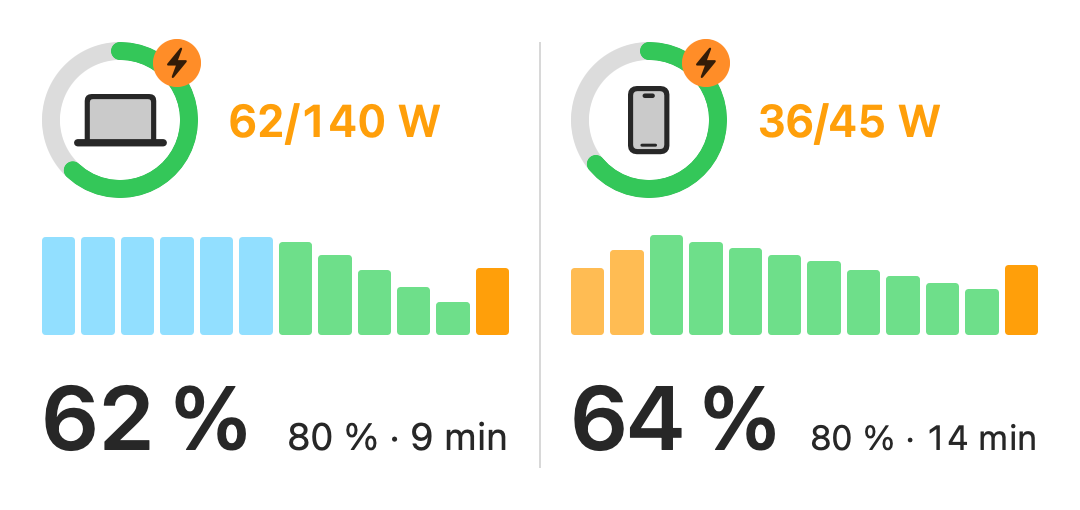
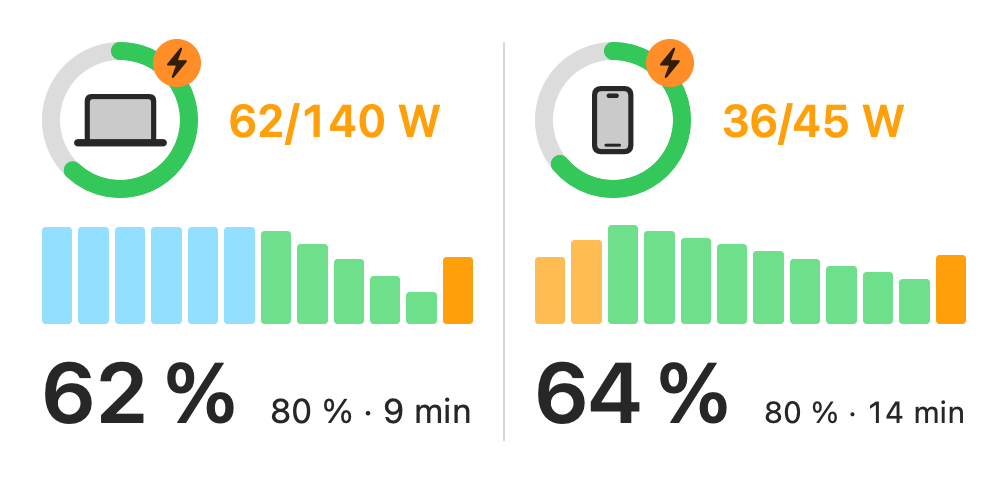
1.3.4: widget power line drops the unit before truncating; silent tile says 'no contact'; renders at the real widget width

diff --git a/TandemApp/Sources/TandemWidget/DevicePresentation.swift b/TandemApp/Sources/TandemWidget/DevicePresentation.swift
@@ -50,7 +50,7 @@ struct DevicePresentation {
         /// The number is what the wall is carrying, not what the pack is
         /// taking, and the colour is the one the `mains` bars are drawn in.
         case plugged
-        /// Secondary: a discharge figure, "on battery", "silent since
+        /// Secondary: a discharge figure, "on battery", "no contact
         /// 14:32", "no data". Nothing here is a flow of power.
         case plain
     }
@@ -58,6 +58,11 @@ struct DevicePresentation {
     /// The line beside the ring, resolved. Nil only when there is genuinely
     /// nothing to say; every state in the approved matrix says something.
     let topText: String?
+    /// The same line with the unit dropped ("135/140" for "135/140 W"), used
+    /// only when the full string will not fit beside the ring: a three-digit
+    /// pair on a 140 W brick is wider than half a medium widget. Nil when
+    /// there is nothing to drop.
+    let topTextCompact: String?
     let topKind: TopLineKind
 
     /// `DeviceStatus.isSilent(now:)`: we have been *trying and failing* to read
@@ -77,7 +82,7 @@ struct DevicePresentation {
     let lastSeen: Date?
 
     /// The moment the current run of failures began — what a silent tile writes
-    /// in both of its slots ("silent since 14:32" over "14:32"). Nil unless we
+    /// in both of its slots ("no contact" over "14:32"). Nil unless we
     /// are failing.
     let unreachableSince: Date?
 
@@ -130,6 +135,7 @@ struct DevicePresentation {
             lastSeen = nil
             unreachableSince = nil
             topText = Self.noDataLabel
+            topTextCompact = nil
             topKind = .plain
             return
         }
@@ -150,7 +156,8 @@ struct DevicePresentation {
 
         timeLine = Self.timeLine(status: status, now: now, age: silent ? silence : nil)
 
-        let power = Self.powerLine(kind: kind, status: status)
+        let power = Self.powerLine(kind: kind, status: status)?.full
+        let powerCompact = Self.powerLine(kind: kind, status: status)?.compact
         powerText = power
         let plugged = reading.externalConnected && !reading.isCharging
         showsPlugGlyph = plugged && power != nil
@@ -158,24 +165,28 @@ struct DevicePresentation {
         // The top line, one state at a time, in the order of the approved
         // matrix (docs/design/widget/StatesMac, StatesPhone).
         if silent {
-            topText = Self.noContactText(silentAt)
+            topText = Self.noContactLabel
+            topTextCompact = nil
             topKind = .plain
         } else if reading.isCharging {
             topText = power
+            topTextCompact = powerCompact
             topKind = power == nil ? .plain : .charging
         } else if plugged {
             topText = power
+            topTextCompact = powerCompact
             topKind = power == nil ? .plain : .plugged
         } else {
             // A Mac says what it is drawing; a phone's discharge wattage is
             // deliberately never shown, and a partial Mac reading has no honest
             // figure either. Both then say what they *are* doing.
             topText = power ?? Self.onBatteryLabel
+            topTextCompact = nil
             topKind = .plain
         }
 
         // A silent tile's bottom-right is the moment it went quiet, so the two
-        // halves of the tile agree: "silent since 14:32" over "14:32".
+        // halves of the tile agree: "no contact" over "14:32".
         statusText = silent
             ? Self.clock(silentAt)
             : Self.statusText(status: status, now: now)
@@ -211,7 +222,8 @@ struct DevicePresentation {
     /// Watts as one short string. Whole watts throughout — a tenth of a watt
     /// has never changed anybody's mind, and the tile has better uses for the
     /// width.
-    private static func powerLine(kind: DeviceKind, status: DeviceStatus) -> String? {
+    /// The wattage line and, where one exists, a narrower spelling of it.
+    private static func powerLine(kind: DeviceKind, status: DeviceStatus) -> (full: String, compact: String?)? {
         let reading = status.reading
         let adapter = (reading.adapterWatts ?? 0) > 0 ? reading.adapterWatts : nil
 
@@ -224,14 +236,16 @@ struct DevicePresentation {
             switch (into, adapter) {
             case let (into?, adapter?):
                 // "13/140 W" — coming out of the wall over what is available.
-                return "\(Int(into.rounded()))/\(adapter) W"
+                // The unit is the first thing to go when the pair runs wide.
+                let pair = "\(Int(into.rounded()))/\(adapter)"
+                return ("\(pair) W", pair)
             case let (into?, nil):
-                return "\(Int(into.rounded())) W"
+                return ("\(Int(into.rounded())) W", nil)
             case let (nil, adapter?):
                 // Nothing measurable, so the number is what the brick offers
                 // rather than what is flowing. An iPhone left on the wire past
                 // 100 % is the usual way to see it: "45 W".
-                return "\(adapter) W"
+                return ("\(adapter) W", nil)
             case (nil, nil):
                 return nil
             }
@@ -242,13 +256,13 @@ struct DevicePresentation {
             // On battery: what the machine is drawing. `SystemLoad` is the
             // real figure; Amperage x Voltage is the fallback.
             if let load = reading.systemLoadW {
-                return "\(minus)\(Int(load.rounded())) W"
+                return ("\(minus)\(Int(load.rounded())) W", nil)
             }
             // A partial reading carries 0 W, which is a lie, not a reading.
             guard !reading.isPartial else { return nil }
             let watts = reading.batteryPowerW
             let sign = watts < 0 ? minus : ""
-            return "\(sign)\(Int(abs(watts).rounded())) W"
+            return ("\(sign)\(Int(abs(watts).rounded())) W", nil)
         case .iphone:
             // The phone's discharge wattage is deliberately not shown.
             return nil
@@ -302,16 +316,14 @@ struct DevicePresentation {
         String(localized: "no data", comment: "Widget: this device has never been seen.")
     }
 
-    /// `silent since 14:32` — a device we have been failing to reach for longer
-    /// than `DeviceStatus.silenceWindow`, timed from the first of those
-    /// failures. The time, not the age: "since 14:32" is checkable
-    /// against a clock and "12 min" goes stale the moment it is drawn.
-    static func noContactText(_ date: Date) -> String {
-        String(
-            format: String(localized: "silent since %@",
-                           comment: "Widget: the device stopped reporting; %@ is a short time of day."),
-            clock(date)
-        )
+    /// `no contact` — a device we have been failing to reach for longer than
+    /// `DeviceStatus.silenceWindow`. The moment it went quiet is the tile's
+    /// bottom-right slot, so the top line does not repeat it: "silent since
+    /// 14:32" over "14:32" said the same thing twice and was the one string
+    /// too wide for half a medium widget.
+    static var noContactLabel: String {
+        String(localized: "no contact",
+               comment: "Widget: the device has stopped answering; the clock time is in the bottom-right slot.")
     }
 
     /// The locale's own short clock, so a 12-hour locale gets `2:32 PM`.

diff --git a/TandemApp/Sources/TandemWidget/MediumWidgetView.swift b/TandemApp/Sources/TandemWidget/MediumWidgetView.swift
@@ -21,7 +21,7 @@ import SwiftUI
 /// | charging | `62/140 W`, amber | `80 % · 27 min` |
 /// | on battery | `−13 W` / `on battery` | `4:19` |
 /// | on the wall, holding | 🔌 `13/140 W`, blue | `charged` / `on hold` |
-/// | silent > 10 min | `silent since 14:32` | `14:32` |
+/// | silent > 10 min | `no contact` | `14:32` |
 /// | never seen | `no data` | — |
 ///
 /// It lives on its own rather than inside `MediumWidgetView` because the large
@@ -95,20 +95,32 @@ struct DeviceTile: View {
     /// The one secondary line, centred against the ring. Colour carries the
     /// meaning: amber is power going into the pack, blue is power the wall is
     /// carrying and the pack is not taking, and everything else is quiet.
+    ///
+    /// It is drawn at its full size wherever it fits. Three
+    /// digits over three ("135/140 W" on a 140 W brick) is wider than half a
+    /// medium widget, so rather than truncate it to "135/140…" the unit is
+    /// dropped first and only then is the type allowed to shrink.
     @ViewBuilder
     private var topLine: some View {
         if let text = device.topText {
-            Self.label(text, plug: device.showsPlugGlyph)
-                .font(.system(size: Self.topSize, weight: Self.weight(device.topKind)))
-                .monospacedDigit()
-                .foregroundStyle(Self.style(device.topKind))
-                .lineLimit(1)
-                // Only "silent since 14:32" ever needs to shrink; every
-                // power line fits at full size beside the ring, and the user
-                // wants those read at the size the mock-up says.
-                .minimumScaleFactor(device.topKind == .plain ? 0.6 : 1.0)
-                .fixedSize(horizontal: false, vertical: true)
+            ViewThatFits(in: .horizontal) {
+                styledTop(text)
+                if let compact = device.topTextCompact {
+                    styledTop(compact)
+                }
+                styledTop(text, floor: device.topKind == .plain ? 0.6 : 0.8)
+            }
         }
+    }
+
+    private func styledTop(_ text: String, floor: CGFloat = 1) -> some View {
+        Text(text)
+            .font(.system(size: Self.topSize, weight: Self.weight(device.topKind)))
+            .monospacedDigit()
+            .foregroundStyle(Self.style(device.topKind))
+            .lineLimit(1)
+            .minimumScaleFactor(floor)
+            .fixedSize(horizontal: false, vertical: true)
     }
 
     private static func weight(_ kind: DevicePresentation.TopLineKind) -> Font.Weight {

diff --git a/tools/render-widget.swift b/tools/render-widget.swift
@@ -196,7 +196,7 @@ struct StatesSheet: View {
                 .font(.system(size: 11, weight: .semibold))
                 .foregroundStyle(Color.black.opacity(0.55))
             widget
-                .frame(width: 360, height: 170)
+                .frame(width: 336, height: 161)
                 .background(
                     RoundedRectangle(cornerRadius: 22, style: .continuous)
                         .fill(Color(white: 0.23))
@@ -246,10 +246,10 @@ struct RenderWidget {
         case "large":
             // The chart is the point of this family and it is drawn in the
             // colours a real widget gets on the desktop, so the large export is
-            // the one rendered dark; 360x376 is the large rect with the same
+            // the one rendered dark; 336x359 is the large rect with the same
             // 16 pt of framing the other exports use.
             render(LargeWidgetView(mac: mac, phone: phone, history: SampleHistory.make(now: now), now: now),
-                   size: CGSize(width: 360, height: 376), scale: 2, to: out, dark: true)
+                   size: CGSize(width: 336, height: 359), scale: 2, to: out, dark: true)
         default:
             var bars = DayBars(history: SampleHistory.make(now: now), now: now)
             if variant.hasSuffix("-charging") {
@@ -261,7 +261,7 @@ struct RenderWidget {
                 bars.phone = Self.landing(bars.phone, on: phone.percent)
             }
             render(MediumWidgetView(mac: mac, phone: phone, bars: bars),
-                   size: CGSize(width: 360, height: 170), scale: 3, to: out)
+                   size: CGSize(width: 336, height: 161), scale: 3, to: out)
         }
     }
 }

diff --git a/TandemApp/README.md b/TandemApp/README.md
@@ -189,7 +189,7 @@ them (`docs/design/widget/StatesMac.dc.html`, `StatesPhone.dc.html`;
 | charging | `62/140 W`, amber semibold | `80 % · 27 min` (`80 % · —` before the estimator has an ETA, `charged` once past 80 %) |
 | on battery | `−13 W` on the Mac, `on battery` on the phone, both secondary | `4:19` |
 | plugged in, not charging | `powerplug` glyph + `13/140 W` in blue semibold (an iPhone left on the wire past 100 % reads `45 W`) | `charged` at/above 80 % or full, else `on hold` |
-| silent (failing for > 10 min, ≥ 2 attempts) | `silent since 14:32` | `14:32` |
+| silent (failing for > 10 min, ≥ 2 attempts) | `no contact` | `14:32` |
 | never seen | `no data` | *(nothing)* |
 
 The watts are always the honest "in / available" pair and never a measurement of
@@ -207,13 +207,13 @@ A **silent** device — one we have been trying and failing to read for over ten
 minutes, over at least two attempts (`DeviceStatus.isSilent(now:)`, the same
 rule the popover row uses) — is drawn at 45 % opacity *except* for its
 exclamation badge, which is the one mark on the widget whose job is to be
-noticed. The clock in `silent since 14:32` is `unreachableSince`, the moment
+noticed. The clock in the bottom-right slot is `unreachableSince`, the moment
 the failures started, not `lastSeen`: a stale reading on its own never dims
 anything, because the phone is deliberately polled every 2–5 minutes and not at
 all while the display sleeps (NOTES.md §14.8). A device that has never been seen
 has no level at all: the percent is an em dash and the ring is drawn as a bare
 track, never `0 %` with a dot of red.
-`min`, `charged`, `on hold`, `on battery`, `no data` and `silent since %@`
+`min`, `charged`, `on hold`, `on battery`, `no data` and `no contact`
 are the translated tokens (`Sources/TandemWidget/Localizable.xcstrings`,
 en + ru); everything else on the widget is a number.
 
